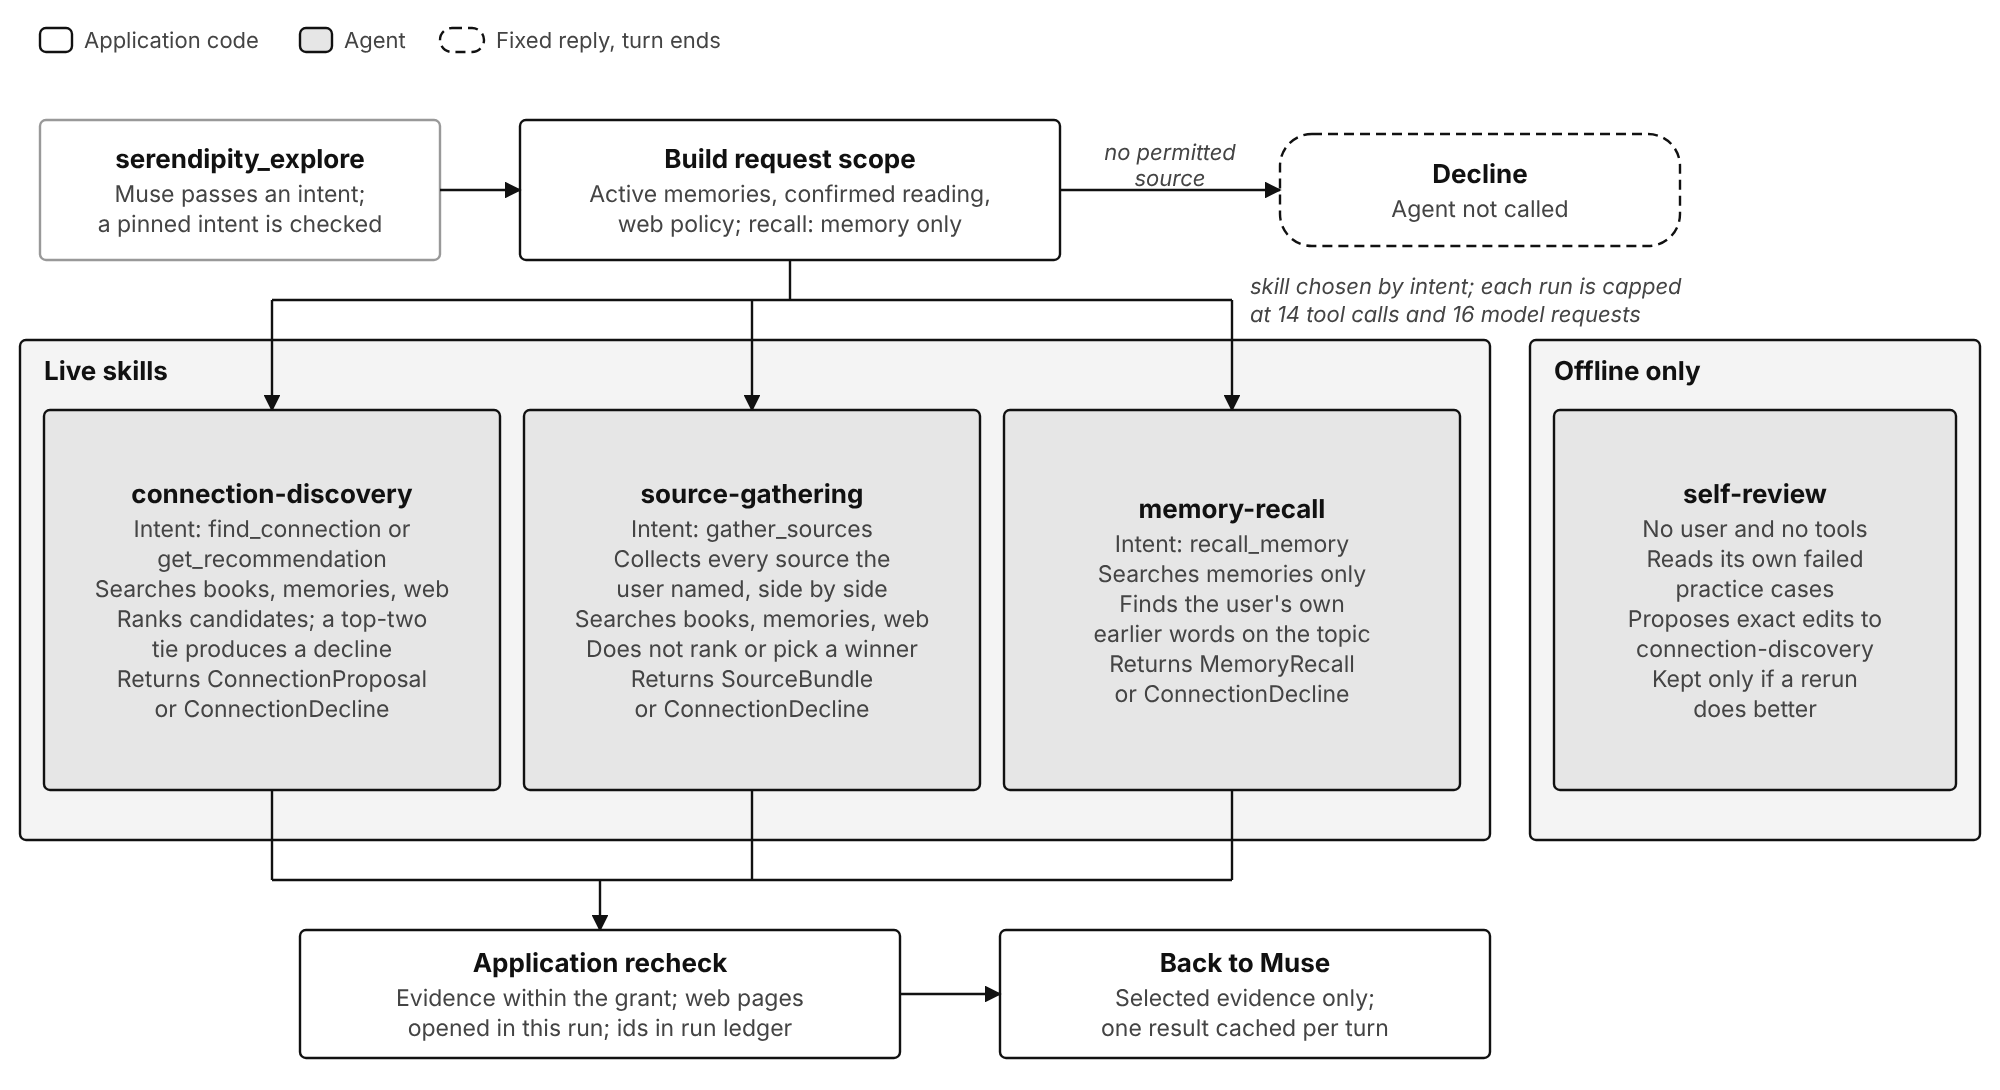
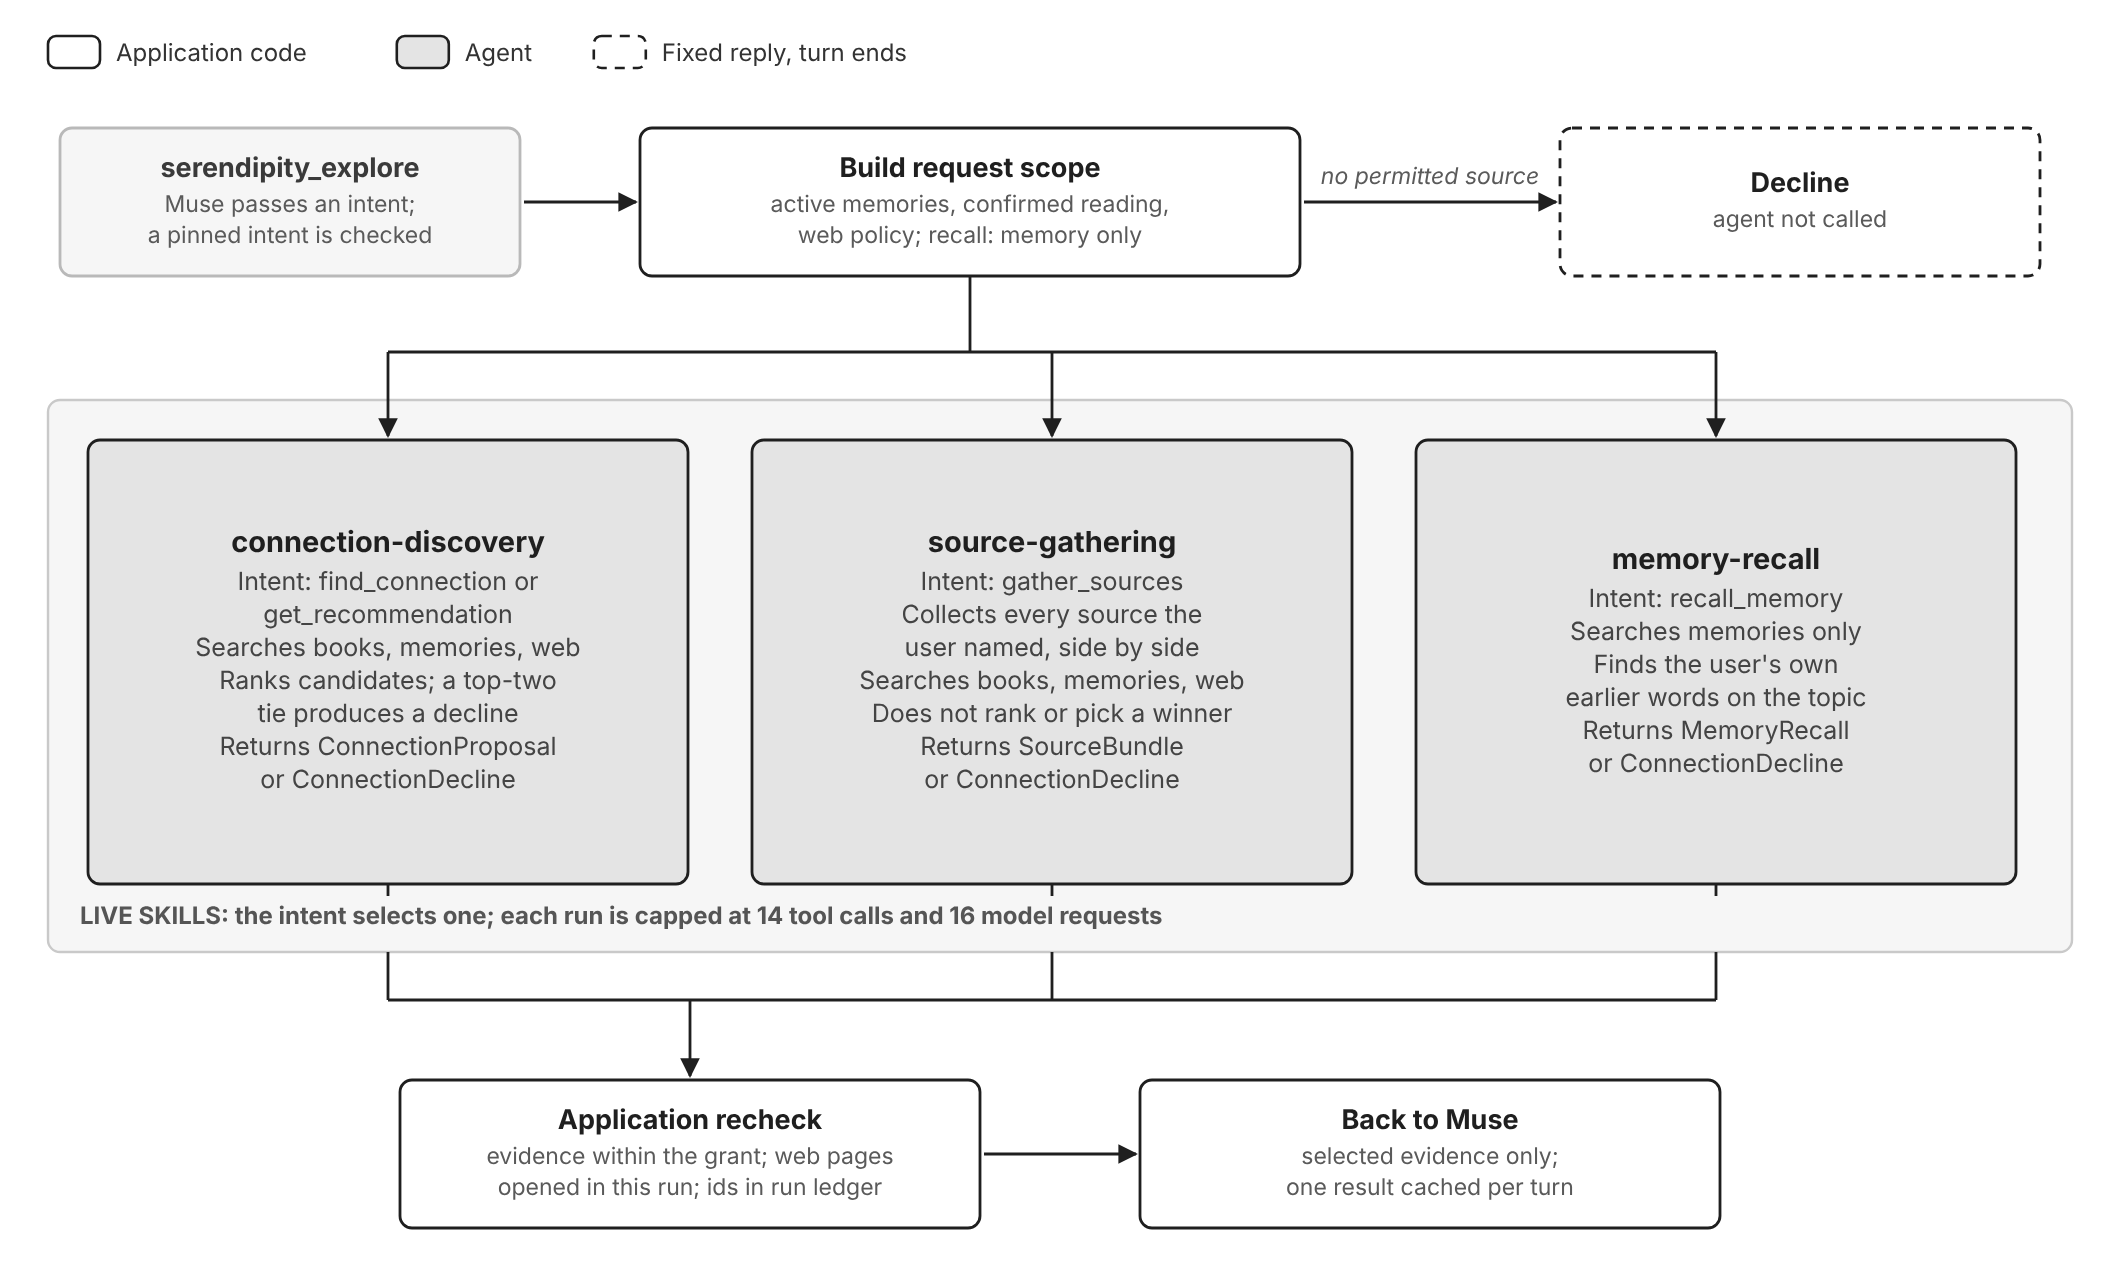
docs(report): rewrite Serendipity skills and redraw Figure 3.3
Describe each live Serendipity skill with its routing, match and decline
rules from its SKILL.md, and add the application recheck. Remove the
offline self-review skill from the text and redraw Figure 3.3 without it,
generated by make_figures.py instead of copied from the Word draft. Fold
the Librarian evidence-strength rationale into its skill bullet.

Claude-Session: https://claude.ai/code/session_015rBuMb9hKv9KY5ydPfwGwS

diff --git a/docs/report/revised/tools/make_figures.py b/docs/report/revised/tools/make_figures.py
@@ -929,7 +929,43 @@ def figure_release_flow() -> Svg:
     return svg
 
 
+# Figure 3.3: Serendipity's live skills ------------------------------------------
+
+
+def figure_serendipity_skills() -> Svg:
+    svg = Svg(1060, 640)
+    svg.legend(24, 26, [("code", "Application code"), ("agent", "Agent"), ("fixed", "Fixed reply, turn ends")])
+    svg.box(30, 64, 230, 74, "muted", "serendipity_explore", ["Muse passes an intent;", "a pinned intent is checked"])
+    svg.box(320, 64, 330, 74, "code", "Build request scope", ["active memories, confirmed reading,", "web policy; recall: memory only"])
+    svg.box(780, 64, 240, 74, "fixed", "Decline", ["agent not called"])
+    svg.line([(262, 101), (318, 101)])
+    svg.line([(652, 101), (778, 101)])
+    svg.text(715, 92, "no permitted source", 11.5, 400, MUTED, italic=True)
+    svg.rect(24, 200, 1012, 276, "#f6f6f6", "#c9c9c9", 1.2, None, rx=6)
+    svg.text(40, 462, "LIVE SKILLS: the intent selects one; each run is capped at 14 tool calls and 16 model requests", 12, 700, "#555555", "start")
+    skills = [
+        ("connection-discovery", ["Intent: find_connection or", "get_recommendation", "Searches books, memories, web", "Ranks candidates; a top-two", "tie produces a decline", "Returns ConnectionProposal", "or ConnectionDecline"]),
+        ("source-gathering", ["Intent: gather_sources", "Collects every source the", "user named, side by side", "Searches books, memories, web", "Does not rank or pick a winner", "Returns SourceBundle", "or ConnectionDecline"]),
+        ("memory-recall", ["Intent: recall_memory", "Searches memories only", "Finds the user's own", "earlier words on the topic", "Returns MemoryRecall", "or ConnectionDecline"]),
+    ]
+    xs = [44, 376, 708]
+    svg.line([(485, 138), (485, 176)], arrow=False)
+    svg.line([(xs[0] + 150, 176), (xs[2] + 150, 176)], arrow=False)
+    for x, (name, lines) in zip(xs, skills):
+        svg.line([(x + 150, 176), (x + 150, 218)])
+        svg.box(x, 220, 300, 222, "agent", name, lines, title_size=14.5, line_size=12.5)
+        svg.line([(x + 150, 442), (x + 150, 448)], arrow=False)
+        svg.line([(x + 150, 476), (x + 150, 500)], arrow=False)
+    svg.line([(xs[0] + 150, 500), (xs[2] + 150, 500)], arrow=False)
+    svg.line([(345, 500), (345, 538)])
+    svg.box(200, 540, 290, 74, "code", "Application recheck", ["evidence within the grant; web pages", "opened in this run; ids in run ledger"])
+    svg.box(570, 540, 290, 74, "code", "Back to Muse", ["selected evidence only;", "one result cached per turn"])
+    svg.line([(492, 577), (568, 577)])
+    return svg
+
+
 FIGURES = {
+    "fig-3-3-serendipity-skills": figure_serendipity_skills,
     "fig-2-1-logical-architecture": figure_logical_architecture,
     "fig-2-2-chat-turn-sequence": figure_chat_turn_sequence,
     "fig-2-3-physical-architecture": figure_physical_architecture,

diff --git a/docs/report/revised/tools/patch_docx_images.py b/docs/report/revised/tools/patch_docx_images.py
@@ -36,7 +36,6 @@ KEEP = {
     "image23.png": "fig-2-6-ground-truth-review.png",
     "image32.png": "fig-3-1-muse-skills.png",
     "image15.png": "fig-3-2-librarian-skills.png",
-    "image34.png": "fig-3-3-serendipity-skills.png",
     "image6.png": "fig-3-4-provenance-skills.png",
     "image4.png": "fig-3-5-provenance-outcome.png",
     "image13.png": "fig-3-6-sculptor-skills.png",

diff --git a/docs/report/revised/group-project-report.md b/docs/report/revised/group-project-report.md
@@ -120,7 +120,7 @@ We have five agents:
 
 ![Logical architecture](figures/fig-2-1-logical-architecture.png)
 
-*Figure 2.1. Logical architecture. No edge connects two agents. Solid edges show calls, writes or typed tasks from application code. Dashed edges show access that application code runs or supplies for an agent; the agent holds no store handle. Each agent box lists the runtime skills the application can select for it; the five offline-only skills are not shown. Agents return typed outputs to the code that ran them.*
+*Figure 2.1. Logical architecture. No edge connects two agents. Solid edges show calls, writes or typed tasks from application code. Dashed edges show access that application code runs or supplies for an agent; the agent holds no store handle. Each agent box lists the runtime skills the application can select for it; Sculptor's four offline-only skills are not shown. Agents return typed outputs to the code that ran them.*
 
 ![One chat turn as a sequence](figures/fig-2-2-chat-turn-sequence.png)
 
@@ -223,9 +223,7 @@ Librarian has four skills, run in two stages: boundary-inference and event-ident
 - *The boundary-inference skill infers how far the user has read when they have not confirmed a chapter.* Users often refer to events rather than chapter numbers, for example "the part with the Caterpillar". To locate such an event, it may inspect candidates from the whole book, which are used only to infer the user's position and never become evidence for the reply. The application rejects an inferred ceiling when it rests on the current Line alone, when its confidence is below 0.75, or when its chapter differs from the highest chapter of its supporting evidence.
 - *The event-identification skill names the event where the user stopped.* It runs alongside boundary inference, and the inferred ceiling must agree with it. If either check fails, the application asks the user which chapter they have finished, at the cost of one additional turn.
 - *The book-request skill splits the request into spans copied exactly from the user's words.* The application rejects any span that is not exact reader text.
-- *The evidence-assessment skill judges whether the retrieved passages support each span.* It may select only retrieved records, each record once, within budget.
-
-Muse does not receive Librarian's free-text reasoning. It receives a fixed sentence, written by the application, that states the strength of the evidence. This keeps unreviewed model text out of Muse's context.
+- *The evidence-assessment skill judges whether the retrieved passages support each span.* It may select only retrieved records, each record once, within budget. Muse does not receive its free-text reasoning, only a fixed sentence written by the application that states the strength of the evidence. This keeps unreviewed model text out of Muse's context.
 
 Retrieval opens only the chapters within the resolved boundary, so text beyond it never reaches a model that could reproduce it. No spoiler exposure was recorded in any of the five retrieval configurations benchmarked or in the live evaluation.
 
@@ -239,20 +237,19 @@ Serendipity is the discovery agent. It finds material from outside the current c
 
 ![Serendipity's skills](figures/fig-3-3-serendipity-skills.png)
 
-*Figure 3.3. Serendipity's skills. The application builds the request scope, the intent selects one live skill, and the application rechecks the evidence before it returns to Muse.*
+*Figure 3.3. Serendipity's three skills. The application builds the request scope, the intent selects one skill, and the application rechecks the evidence before it returns to Muse.*
 
-Serendipity has four skills: three run live, selected by the intent Muse passes, and one runs offline.
+Serendipity has three skills. The intent Muse passes selects one, and each searches only the sources the application granted for that request.
 
-- *The connection-discovery skill proposes a single connection.* It handles `find_connection` and `get_recommendation`, searches the permitted sources and ranks the candidates. When the two highest-rated candidates are tied, it declines rather than choosing, because an arbitrary choice would be presented to the user as a considered suggestion.
-- *The source-gathering skill collects the sources the user has already named.* It handles `gather_sources` and returns each named source without ranking them, so that Muse can present them side by side.
-- *The memory-recall skill returns the user's own earlier words.* It handles `recall_memory` and searches only the user's memories.
-- *The self-review skill improves connection-discovery offline.* It reads Serendipity's own failed practice cases and proposes exact edits, which are kept only if a rerun does better (Section 3.2.6).
+- *The connection-discovery skill proposes one tentative connection, or declines.* It handles `find_connection` and `get_recommendation`. A grant is permission, not an instruction to search every source, so the skill first picks a primary source: for example, the user's memories when the message refers to their own earlier words, and the public web when they ask for an outside recommendation. It then ranks the supported candidates and returns one proposal with its shortlist. A memory counts only if it is the user's own earlier reflection on the same theme; one that merely offers a similar lesson or mood does not. When the two highest-rated candidates are tied, it declines rather than choosing, because an arbitrary choice would be presented to the user as a considered suggestion.
+- *The source-gathering skill collects every source the user has named, without choosing among them.* It handles `gather_sources`, which applies when the user names the books, scenes, public text or earlier notes they want compared. It searches only those named sources, even when others are permitted, and returns them together as one bundle, or a decline. It may not rank the sources or pick a winner: the user has already chosen, so Muse can present them side by side. A record is included only if it supports a named source, and nothing is added to make the bundle look fuller.
+- *The memory-recall skill returns the user's own earlier words on what they asked about.* It handles `recall_memory`, and the application grants it the user's memories only, so no book or web source can enter a recall. A record matches only if the user would recognise it as what they wrote before about the same fact, preference or decision; a record that merely shares vocabulary does not count. It returns one to three matching records, or declines when none matches, and never stretches an unrelated note into an answer. Muse then presents the records as the user's own words rather than as facts (Section 5.2).
 
-The application builds the scope of each request from the user's active memories, confirmed reading and the web policy before the agent runs. If no source is permitted, the application declines without calling the agent. Within a run, Serendipity is limited to 14 tool calls and 16 model requests, enough for two rounds of one book search, one web search and five page retrievals.
+The application builds the scope of each request from the user's active memories, confirmed reading and the web policy before the agent runs. If no source is permitted, the application declines without calling the agent. After the agent returns, the application rechecks every item: evidence must sit within the grant, web pages must have been opened in this run, and every identifier must appear in the run's ledger. Only the selected evidence returns to Muse. Within a run, Serendipity is limited to 14 tool calls and 16 model requests, enough for two rounds of one book search, one web search and five page retrievals.
 
 Candidate selection is Serendipity's weakest step. In the component suite of 46 cases, each run five times, 0.913 of runs passed, but only 38 cases passed all five repetitions (Appendix A). In the Scenarios, it sometimes preferred an identity comparison to the passages the question required, and it did not follow an instruction that the selected connection must cover every source the user named. This is the clearest case in the project of a prompt instruction failing where a code check would have held.
 
-**Code:** `src/linger/agents/serendipity/`, `src/linger/orchestration/connection.py`, `src/linger/orchestration/serendipity_self_review.py`. **Tested in:** Appendix A (component suite), Section 4 (Serendipity Scenarios), Appendix C.1 (R4 privacy probe).
+**Code:** `src/linger/agents/serendipity/`, `src/linger/orchestration/connection.py`. **Tested in:** Appendix A (component suite), Section 4 (Serendipity Scenarios), Appendix C.1 (R4 privacy probe).
 
 ### 3.1.4 Provenance
 
@@ -423,7 +420,7 @@ Table 3.2 shows the first round of this loop (Experiment 4, round 1, 1 October 2
 
 *Table 3.2. One round of Sculptor's supervised improvement loop.*
 
-The larger setting is not active for readers: production still keeps three windows per planned part. Serendipity's offline *self-review* skill follows the same rule: a proposed instruction edit is kept only if a rerun on its practice cases does better.
+The larger setting is not active for readers: production still keeps three windows per planned part.
 
 **Code:** `src/linger/agents/sculptor/skills/retrieval-error-analysis/`, `src/linger/agents/sculptor/skills/retrieval-research/`, `src/linger/orchestration/retrieval_research.py`, `evals/librarian/research_loop.py`. **Tested in:** Experiment 4 records, `evals/librarian/research_runs/round-1/` and `docs/design/self-improving-memory-loop.md`.
 

diff --git a/docs/report/revised/CHANGES.md b/docs/report/revised/CHANGES.md
@@ -45,7 +45,7 @@ cd docs/report/revised && pandoc -f markdown-implicit_figures group-project-repo
 | Learning 3 and Figure 10.4 | "Provenance changed it to Lamp-Wick" reworded. Provenance flagged the speaker, Muse's revision introduced the error, and the second review passed it. Source: `docs/evaluation/five-agent-baseline-and-sculptor-options-2026-09-26.md` ("a wrong speaker attribution that Provenance had requested during revision"). Figure 10.3 now shows the added error as a path from over-refusal to missed error. |
 | 3.2.3 | The "about 5%" claim now shows the per-Scene rates it rests on (4, 3, 0 and 1 of the last five runs) and the product 0.8 × 0.6 × 0.5 × 0.2. Source: the same evaluation document. |
 | 4.3, step 2 | Restored the missing explanation of "that list": the model-written list of unused candidate passages, which the application now derives itself (`normalize_boundary_candidate`). |
-| 3.1.3 | Says that Serendipity has four skills, and now describes the fourth (self-review). |
+| 3.1.3 | Serendipity is described with its three live skills only; the offline self-review skill was removed from the report, and Figure 3.3 was redrawn to match. The skill bullets now give each skill's routing, match and decline rules from its `SKILL.md`. |
 | Figure 2.3 | Redrawn without "first deploy pending" and "pending release path". |
 | OWASP | Table 6.1 names each category. The reference year now matches the 2026 numbering the register uses. |
 | References | Added Panickssery et al. (2024), Kim et al. (2025), and IMDA (2026). Added placeholder entries for OpenAI (2024, 2025, 2026), xAI (2026) and OpenClaw (2026). Removed the uncited Xu et al. (2026) and the IMDA 2020 and 2024 frameworks. Shankar et al. (2024) is now cited in Table 9.1. |
